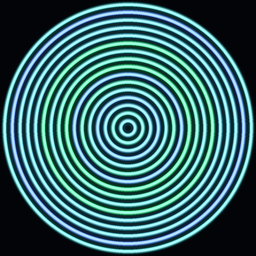
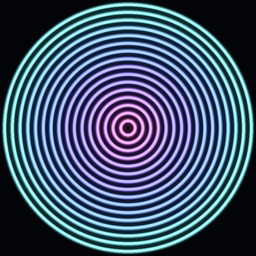
Color rings from an abstract-painting palette
- Replace the two-random-endpoint coloring with a lush master palette that
  flows orange -> coral -> rose -> magenta -> violet -> indigo -> azure -> teal
- Each image catches a smooth continuous slice of the palette, so colors
  melt from one ring to the next like a piece of an abstract painting
- Add a touch of per-ring jitter so it feels hand-painted
- Remove now-unused random_color / colorsys

Claude-Session: https://claude.ai/code/session_014cYWmmT7UYnz57rXY1sy98

diff --git a/main.py b/main.py
@@ -6,27 +6,34 @@
 # anti-aliased edges, plus a soft glow layer underneath each ring.
 
 import argparse
-import colorsys
 import os
 import random
 
 from PIL import Image, ImageDraw, ImageChops, ImageFilter
 
 
-def random_color():
-    """A vivid random RGB color across a wide, cool-leaning hue range.
+# A lush abstract-painting gradient: warm sunset melting into deep ocean.
+# Neighboring stops are harmonious, so any continuous slice flows beautifully.
+PALETTE = [
+    (255, 138, 40),   # orange
+    (255, 94, 86),    # coral
+    (232, 64, 120),   # rose
+    (188, 55, 168),   # magenta
+    (120, 60, 200),   # violet
+    (66, 72, 206),    # indigo / blue
+    (40, 128, 196),   # azure
+    (44, 176, 164),   # teal
+]
 
-    Hues sweep green -> teal -> cyan -> blue -> violet -> magenta -> pink,
-    skipping the warm yellows/oranges/reds, so the palette stays chill but
-    still goes wild from one image to the next.
-    """
-    h = random.uniform(0.33, 0.95)
-    s = random.uniform(0.55, 0.95)
-    v = random.uniform(0.8, 1.0)
 
-    float_rgb = colorsys.hsv_to_rgb(h, s, v)
-    rgb = [int(i * 255) for i in float_rgb]
-    return tuple(rgb)
+def palette_color(pos: float):
+    """Sample the painting palette at pos in [0, 1] (0 = orange, 1 = teal)."""
+    pos = max(0.0, min(1.0, pos))
+    scaled = pos * (len(PALETTE) - 1)
+    i = int(scaled)
+    if i >= len(PALETTE) - 1:
+        return PALETTE[-1]
+    return interpolate(PALETTE[i], PALETTE[i + 1], scaled - i)
 
 
 def draw_tube_ring(draw, center, radius, width, color):
@@ -66,8 +73,12 @@ def generator(save_path: str, target_size: int = 256, rings: int = 16):
     canvas_px = target_size * scale_factor
     padding = 4 * scale_factor
 
-    start_color = random_color()
-    end_color = random_color()
+    # Each image "catches" a smooth, continuous slice of the painting palette,
+    # so the rings melt from one beautiful color into the next.
+    lo = random.uniform(0.0, 0.55)
+    hi = lo + random.uniform(0.35, 1.0 - lo)
+    if random.random() < 0.5:
+        lo, hi = hi, lo  # flow inward or outward
 
     # Plain dark canvas, plus separate black layers for the crisp rings and
     # their glow (kept black so the blur stays clean before compositing).
@@ -85,7 +96,12 @@ def generator(save_path: str, target_size: int = 256, rings: int = 16):
         # the tube shading has room, with a thin space left between rings.
         radius = center - (padding + i * step)
         width = step * 0.55
-        circle_color = interpolate(start_color, end_color, random.random())
+
+        # Walk the palette slice from outer to inner, with a little jitter so
+        # it feels hand-painted rather than perfectly mechanical.
+        f = i / max(1, rings - 1)
+        pos = lo + (hi - lo) * f + random.uniform(-0.03, 0.03)
+        circle_color = palette_color(pos)
 
         draw_tube_ring(rings_draw, center, radius, width, circle_color)
         glow_draw.ellipse((center - radius, center - radius,
